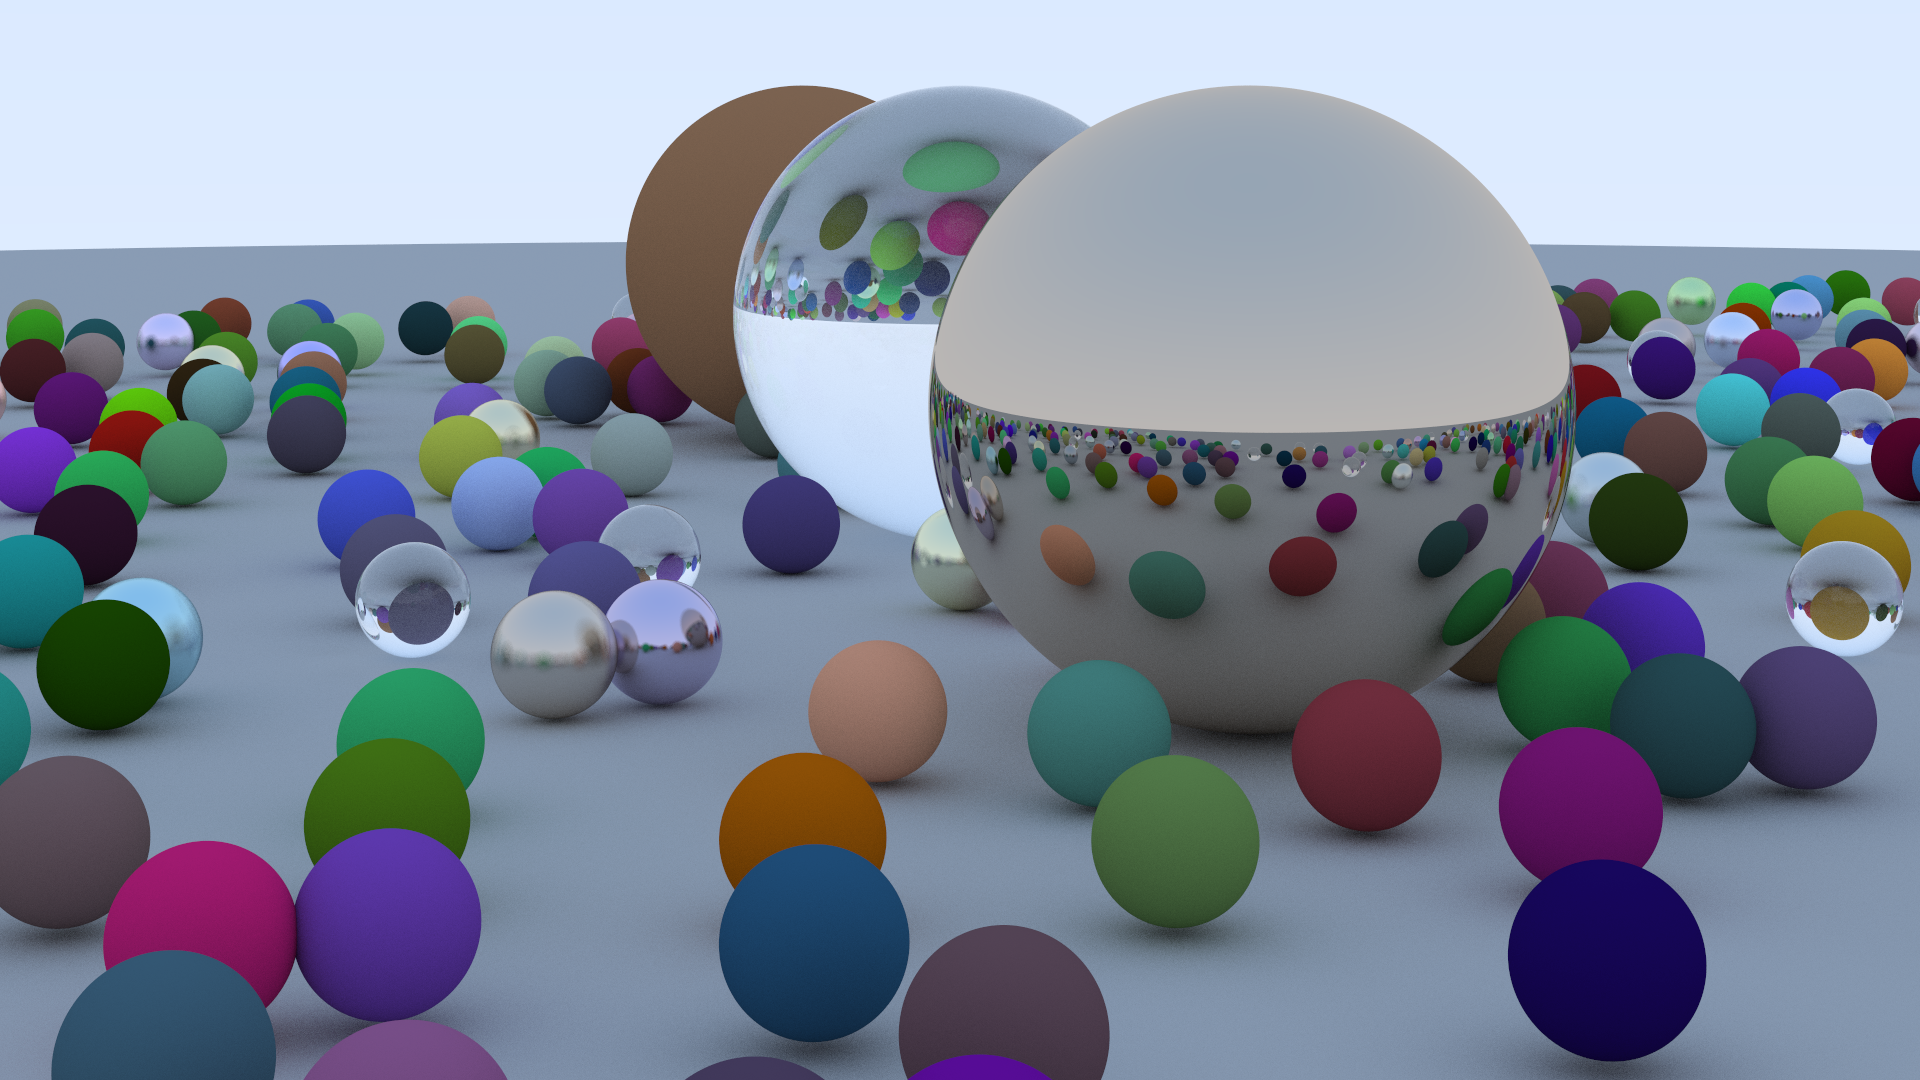
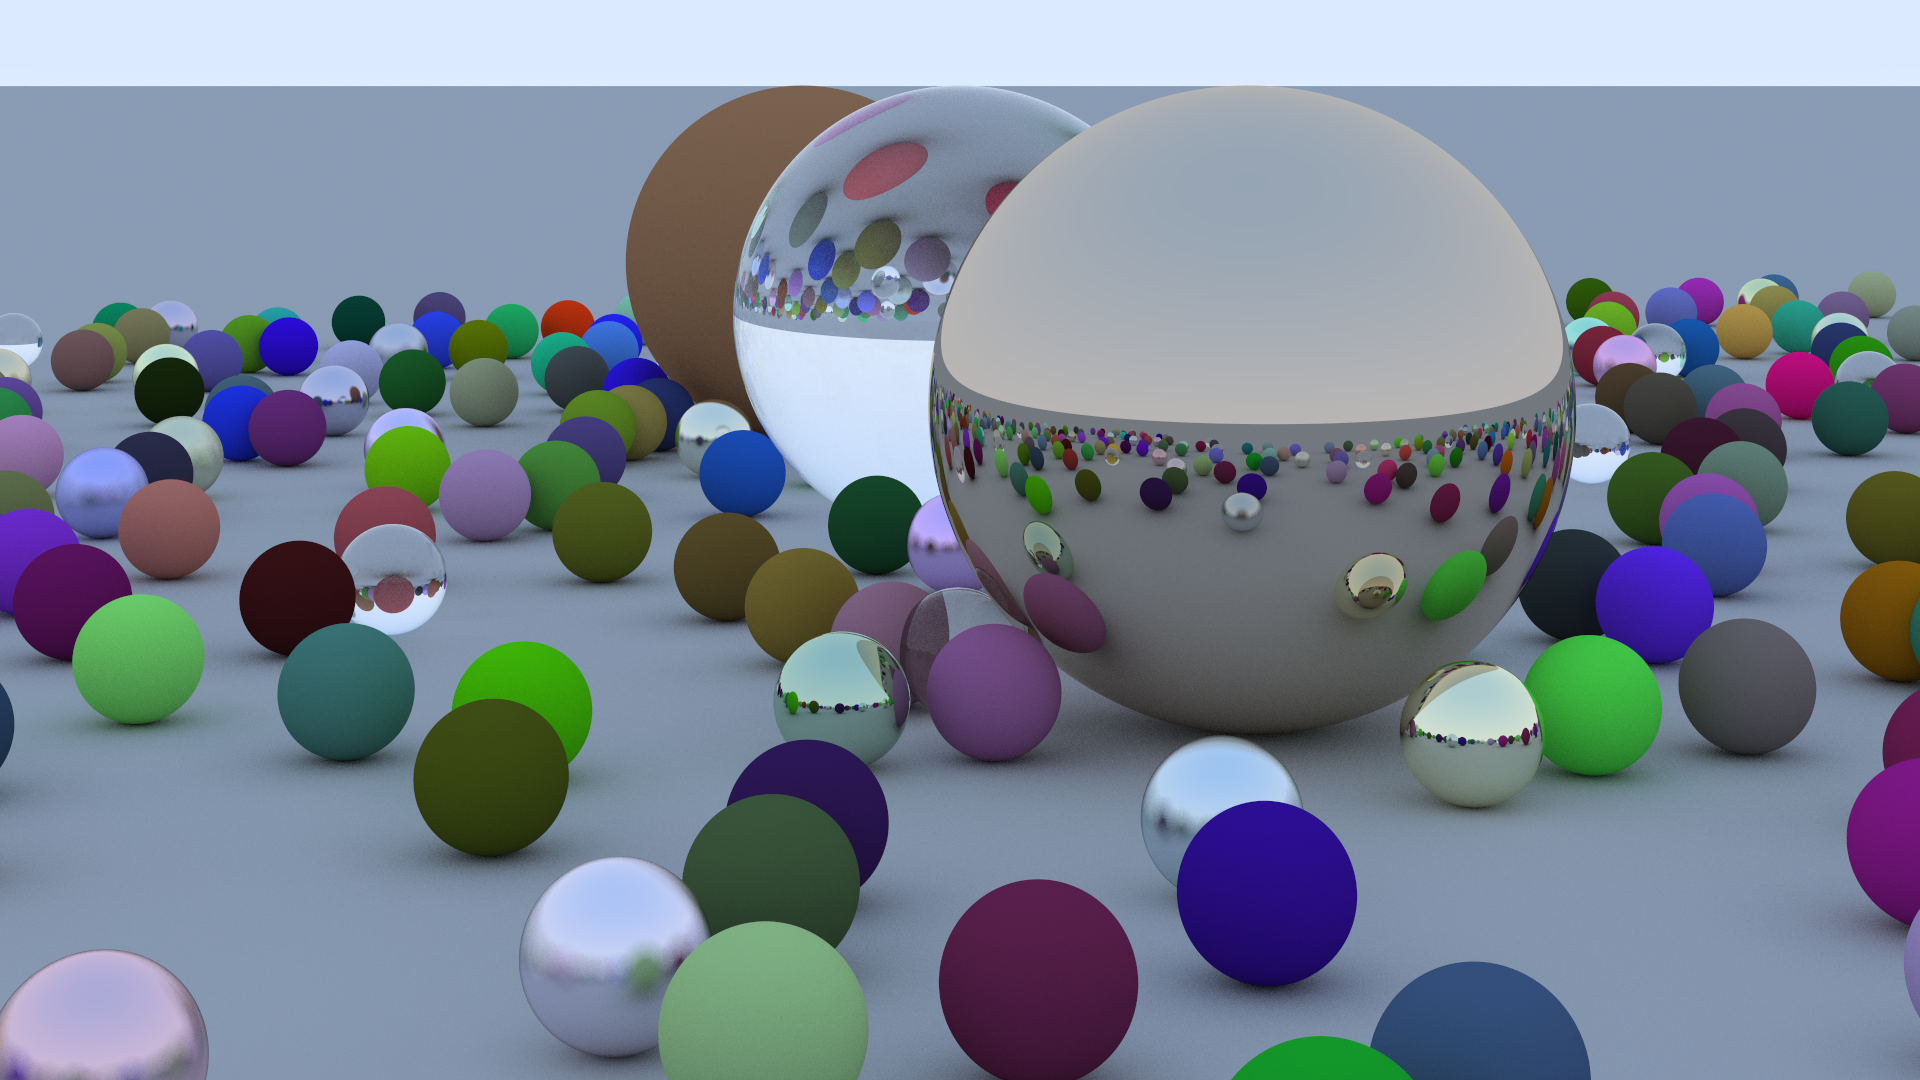
Added planes to GPU code

diff --git a/src/main/java/Plane.java b/src/main/java/Plane.java
@@ -20,14 +20,13 @@ public class Plane extends Object{
         }
         Vec3 dir = r.direction();
         Vec3 o = r.origin();
-        Vec3 normal = new Vec3(a, b, c);
-        float multiplier = (-d -(VectorOperations.dot(normal, r.origin())))/VectorOperations.dot(normal, r.direction());
+        float multiplier = (-d -(VectorOperations.dot(n, r.origin())))/VectorOperations.dot(n, r.direction());
         if(!interval.surrounds(multiplier)){
             return new RayHit();
         }
         Vec3 pointAt = r.pointAt(multiplier);
-        Vec3 norm = VectorOperations.normalise(normal);
-        RayHit hit = new RayHit(pointAt, normal, multiplier, colour, mat);
+        Vec3 norm = VectorOperations.normalise(n);
+        RayHit hit = new RayHit(pointAt, n, multiplier, colour, mat);
         hit.setFrontFace(norm, r);
         return hit;
     }

diff --git a/src/main/java/Main.java b/src/main/java/Main.java
@@ -156,11 +156,17 @@ public class Main {
 
     private static void createScene(ByteBuffer buf){
 
-        addObject(buf, 0, 0, 0, 0,
+        //addObject(buf, 0, 0, 0, 0,
+        //        0.5f, 0.5f, 0.5f, 0,
+        //        0, -1000, 0, 0,
+        //        0, 0, 0, 0,
+        //        1000, 0, 0, 0);
+
+        addObject(buf, 1, 0, 0, 0,
                 0.5f, 0.5f, 0.5f, 0,
-                0, -1000, 0, 0,
                 0, 0, 0, 0,
-                1000, 0, 0, 0);
+                0, 1, 0, 0,
+                0, 0, 0, 0);
 
         for (int a = -11; a < 11; a++){
             for (int b = -11; b < 11; b++){
